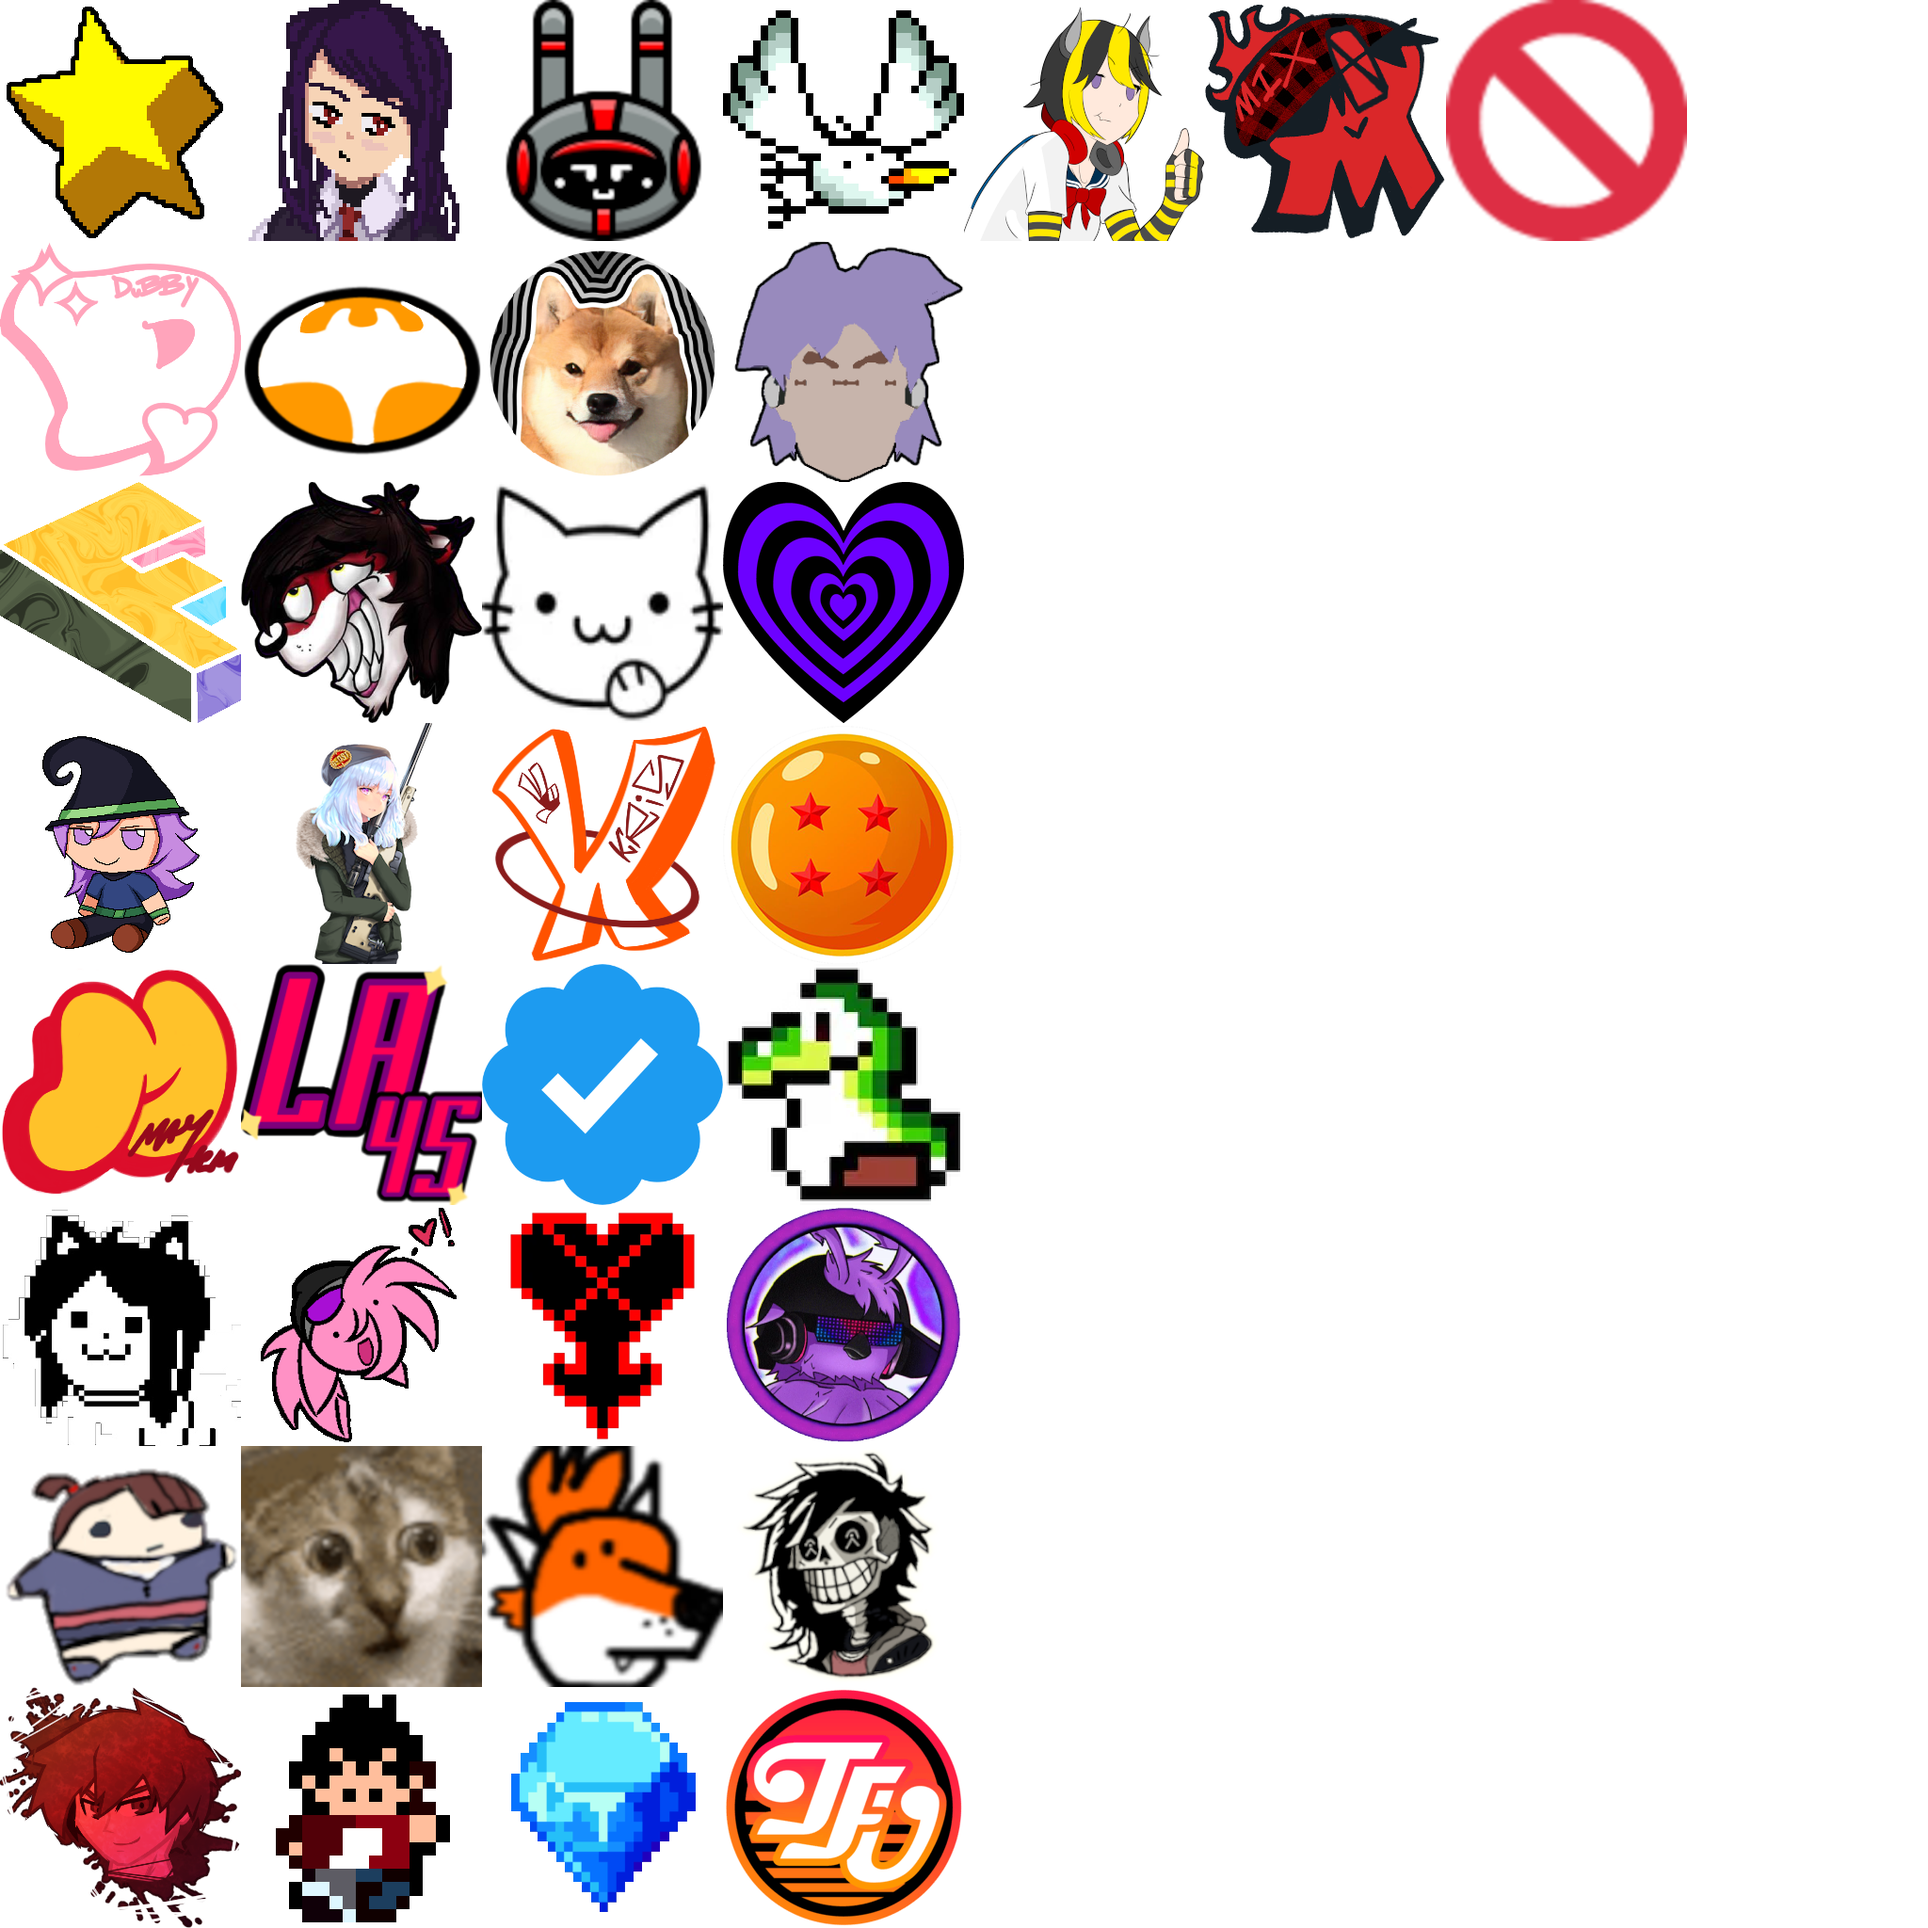
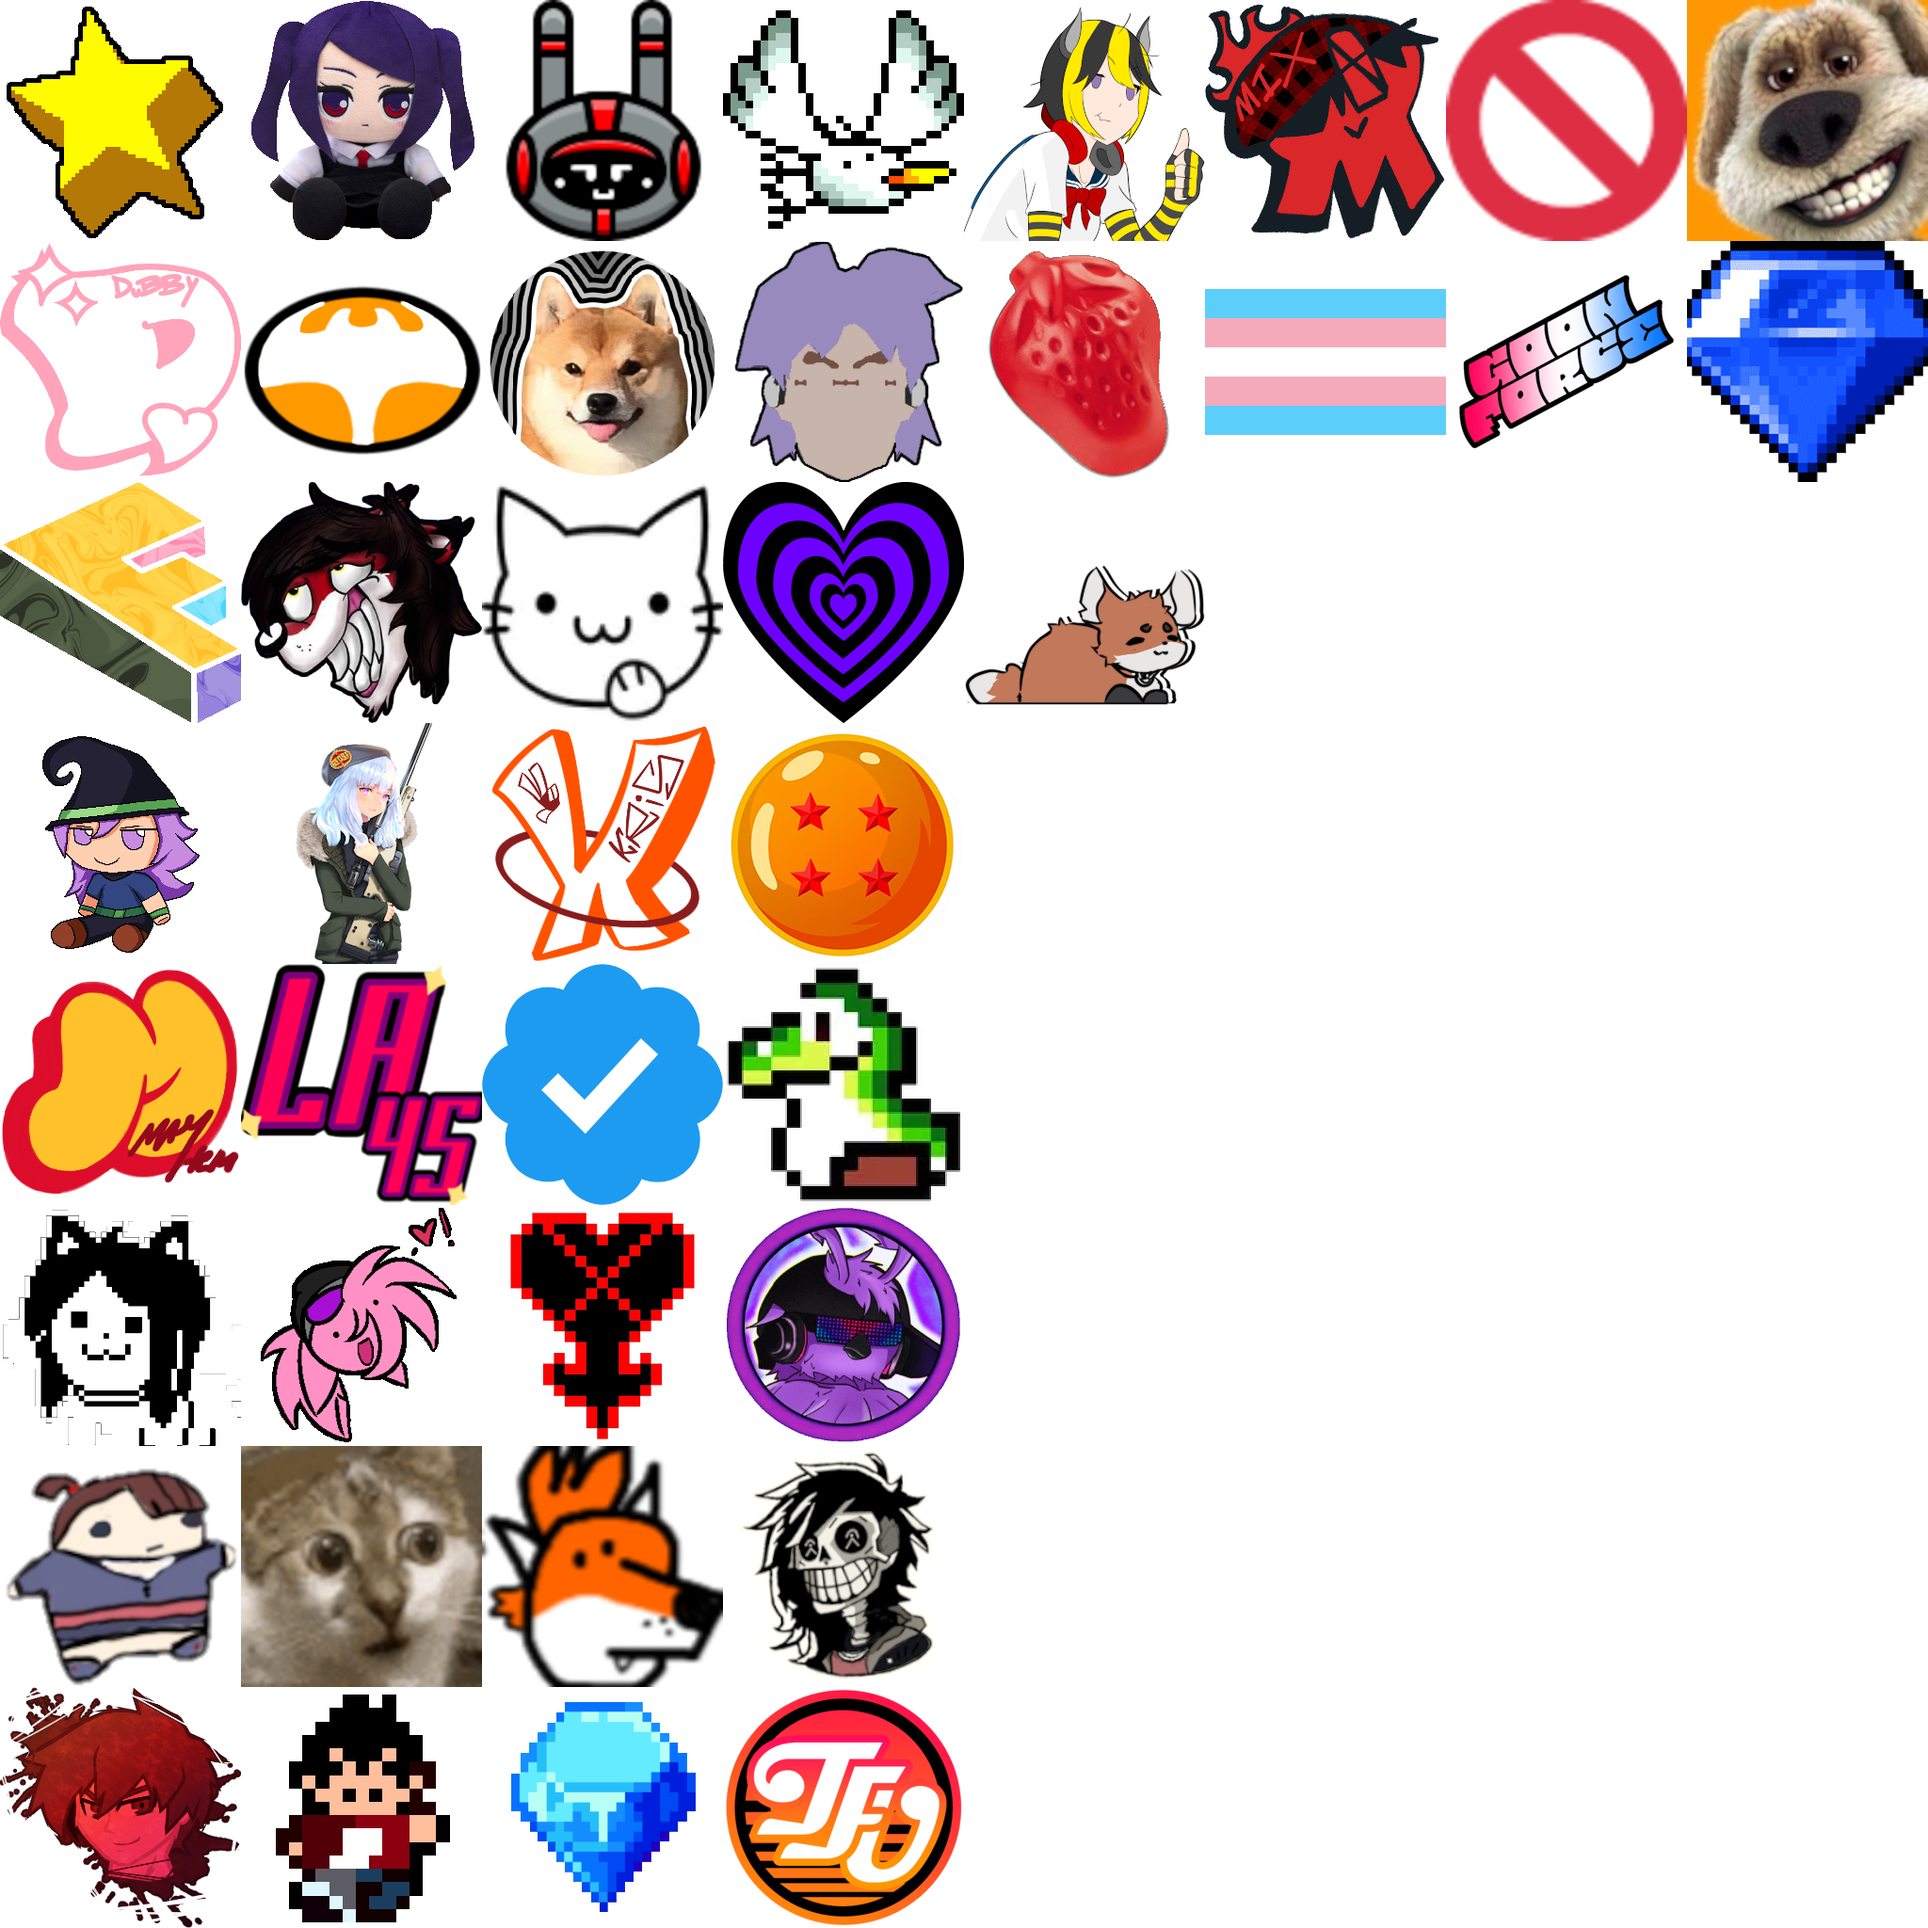
badges and emoji update

Changed region(s): [[0.5, 0.0, 1.0, 0.25], [0.125, 0.0, 0.25, 0.125], [0.5, 0.2812, 0.625, 0.375]]

diff --git a/BombRushMP.Plugin/Emojis.cs b/BombRushMP.Plugin/Emojis.cs
@@ -12,7 +12,8 @@ namespace BombRushMP.Plugin
         {
             { ":car:", 25 },
             { ":akkowot:", 24 },
-            { ":krehs:", 26 }
+            { ":krehs:", 26 },
+            { ":ben:", 38 }
         };
     }
 }
